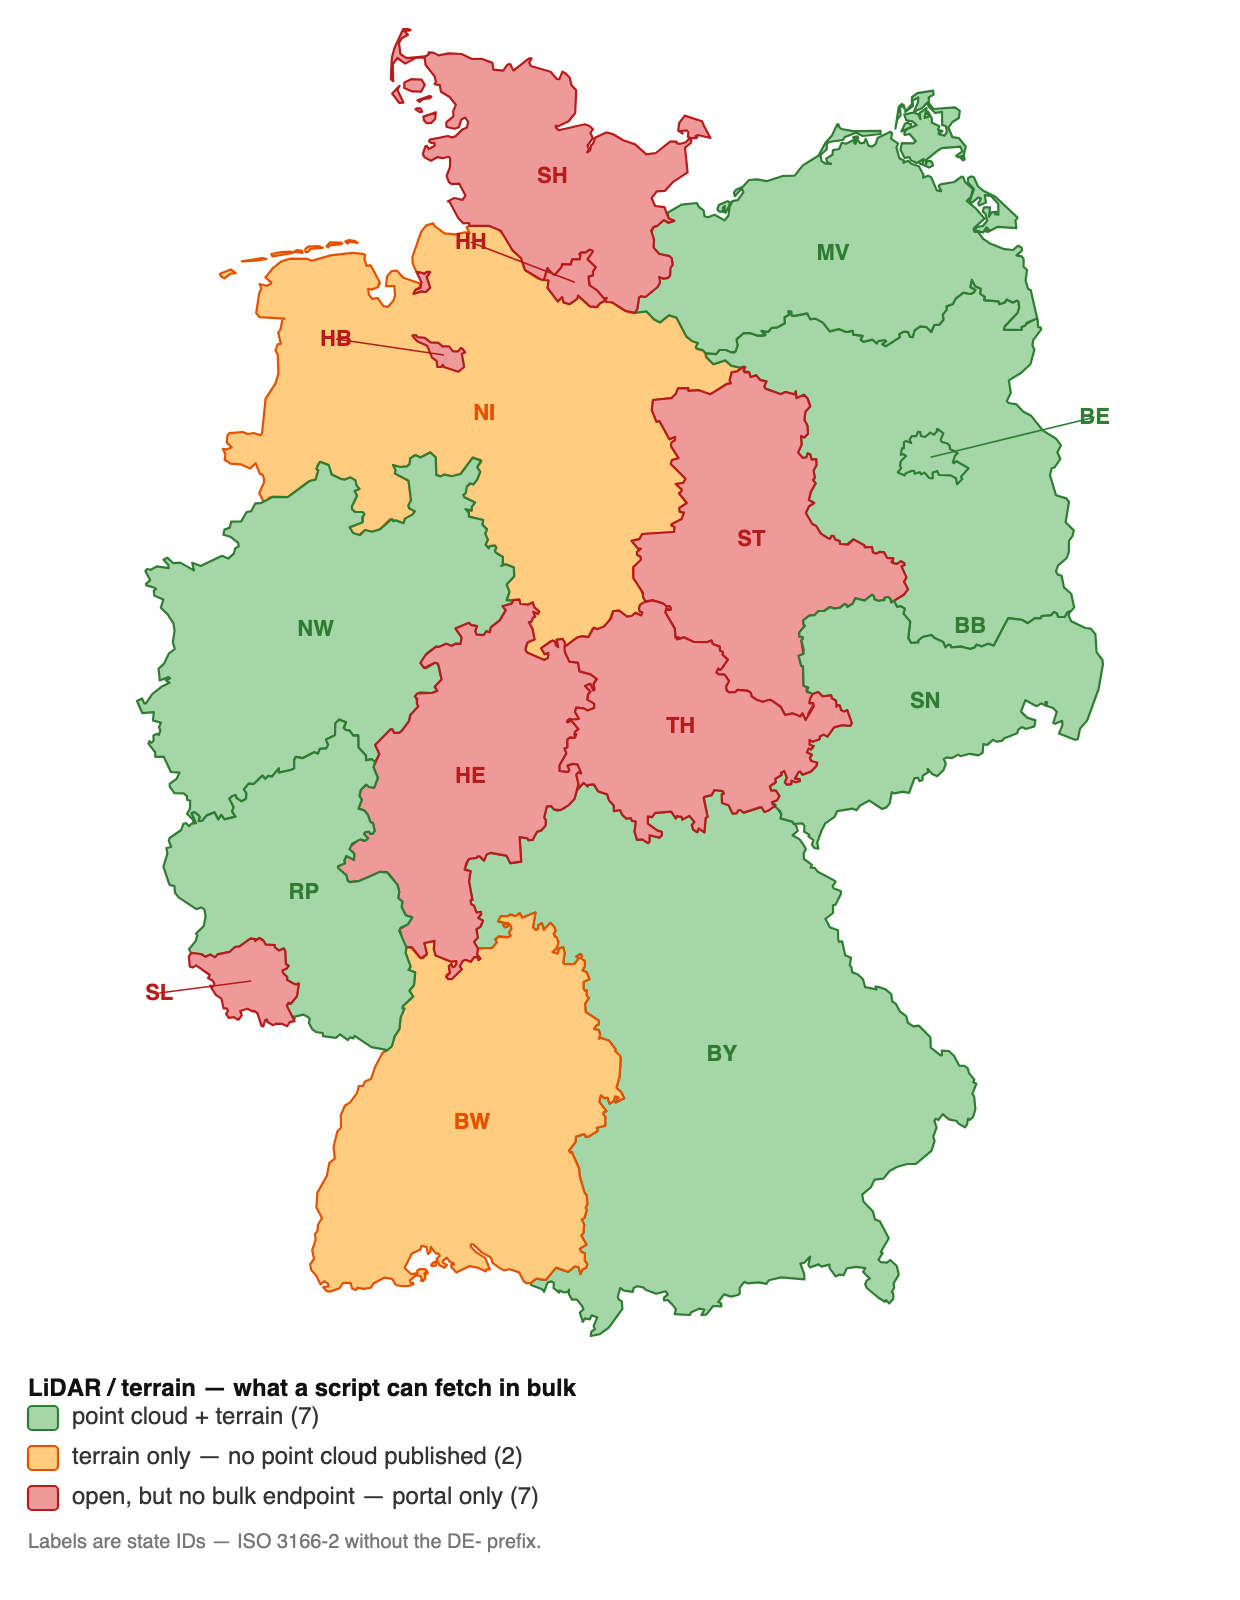
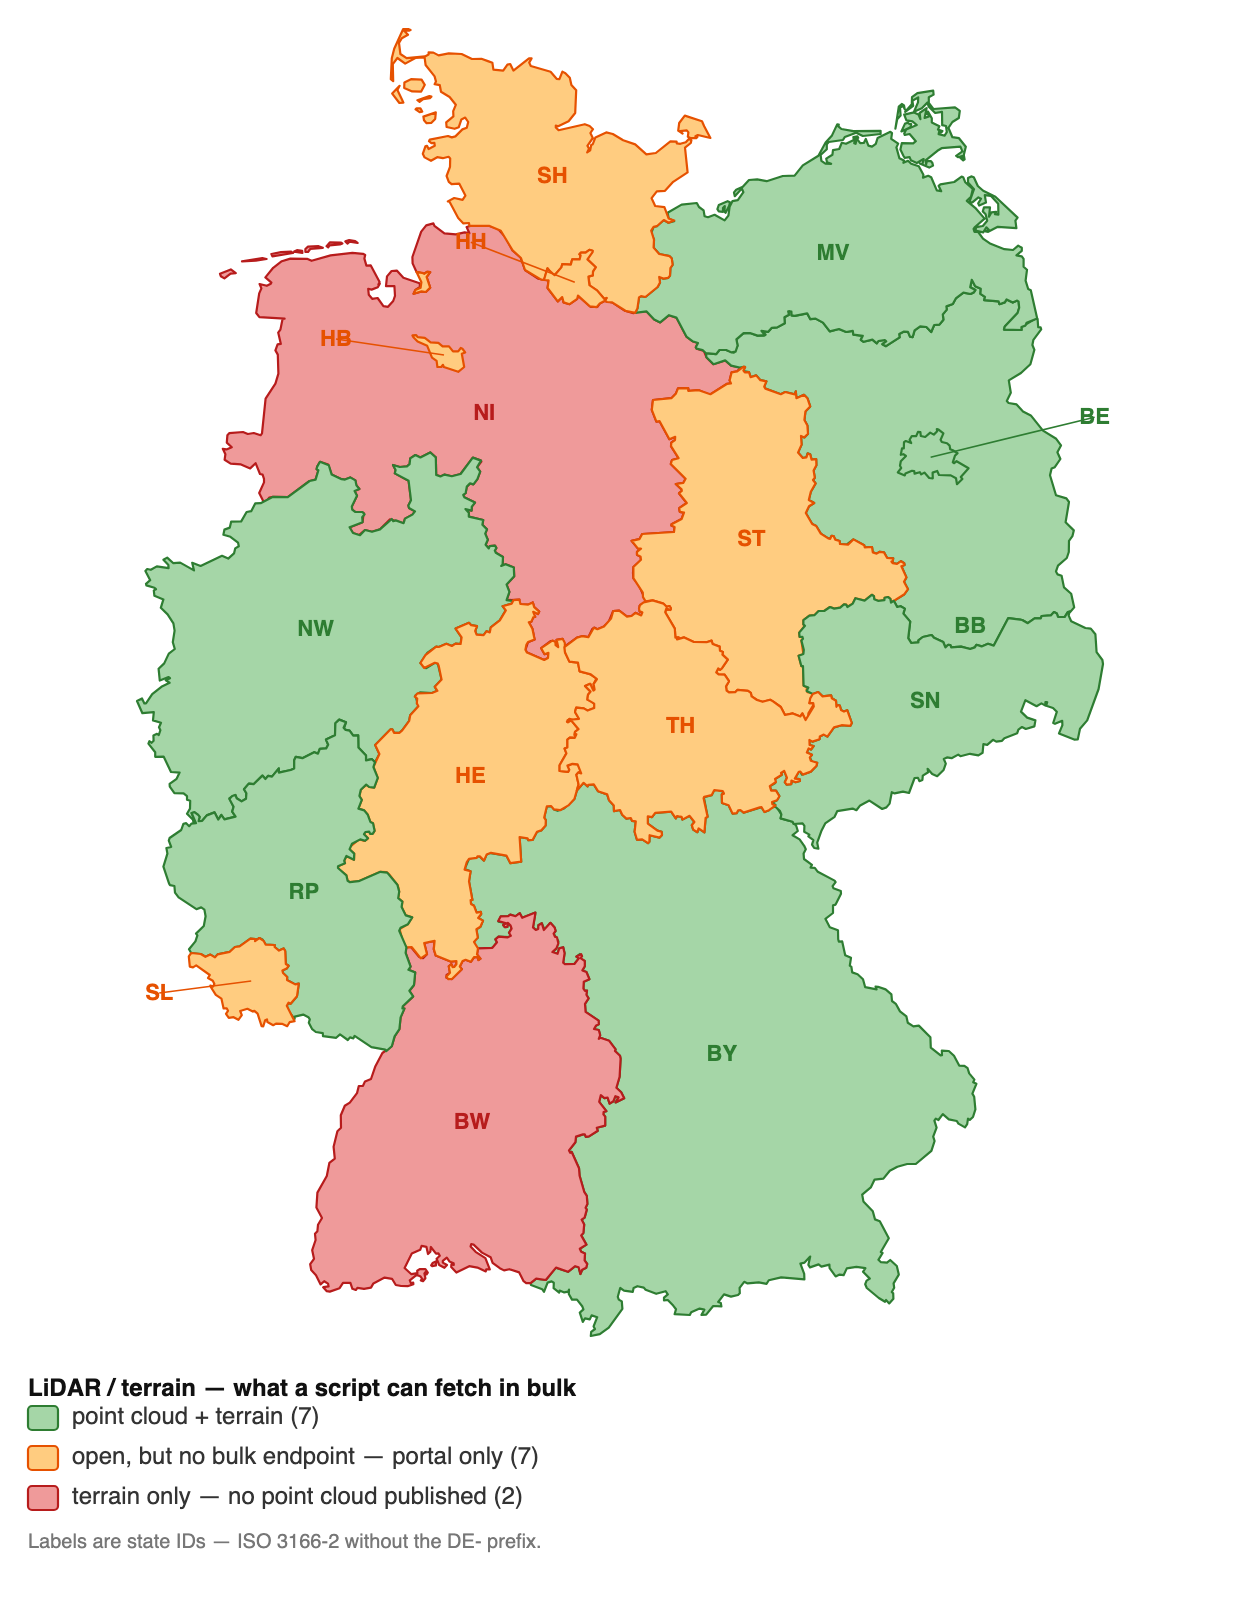
Swap the lidar map's orange and red tiers
Red is now "terrain only" (BW, NI) and orange "no bulk endpoint" (the other
seven), inverting what the coverage and alkis maps do.

The ordering it encodes: a portal state has every product, just not
scriptably, so someone determined can still click through and get it. A
state that publishes no point cloud has nothing further to give however you
ask. The second is the harder stop, so it takes red.

Colour was hard-wired to tier name, which would have made this a silent
remap of "partial" to red everywhere. Legend rows now carry their own colour
-- (tier, colour, label) -- so each map states its own assignment and the
divergence is visible at the point it is decided rather than inferred from
the output. Legend order follows the colour ramp, so green/orange/red still
reads best-to-worst top to bottom.

coverage_map.png and alkis_map.png are byte-identical after the refactor,
which is the check that only the intended map moved.

Changed region(s): [[0.1839, 0.0312, 0.7355, 0.8125], [0.0613, 0.9062, 0.429, 0.9375], [0.1226, 0.5625, 0.2452, 0.6562]]

diff --git a/coverage_map.py b/coverage_map.py
@@ -11,18 +11,21 @@ the answers on geometry, so a glance replaces a table read.
 
   lidar     what elevation can a script actually fetch in bulk?
             green  point cloud + terrain                                                 (7)
-            orange terrain only -- the state publishes no point cloud                    (2)
-            red    open, but no bulk endpoint -- interactive portal only                 (7)
+            orange open, but no bulk endpoint -- interactive portal only                 (7)
+            red    terrain only -- the state publishes no point cloud                    (2)
 
   alkis     what does the state's cadastre actually contain?
             green  full vector ALKIS ohne Eigentuemer                                   (13)
             orange raster cadastral map only -- a picture of the parcels, not geometry   (2)
             red    not open data                                                         (1)
 
-Red never means "closed" except on the alkis map. All 16 states publish elevation openly, so
-the lidar map's red tier is about delivery mechanics -- portals, CAPTCHAs, order clients --
-and the coverage map's red tier is the same states seen through the four-dataset question.
-Orange on the alkis map is likewise not a delivery problem: BY and RP publish their cadastre
+Colour is per-map, not per-tier, because "worst" is a different question on each. The lidar
+map inverts the other two: red is the state with no point cloud to fetch, orange the one
+behind a portal, since a portal state still has every product -- just not scriptably -- while
+a state that publishes no point cloud has nothing more to give however you ask.
+
+Red never means "closed" except on the alkis map. All 16 states publish elevation openly, and
+orange on the alkis map is likewise not a delivery problem: BY and RP publish their cadastre
 as raster, so the download works and the geometry simply is not in it. The legends say so,
 because "not supported" would be wrong in every one of those cases.
 
@@ -79,10 +82,12 @@ HOUSES = {
 # ALKIS packages do carry AX_Gebaeude, so th is arguably 3/4 -- it lands red either way,
 # since it has no bulk elevation at all, which is the stronger constraint.
 
-TIERS = {
-    "full":    ("#2e7d32", "#a5d6a7"),  # stroke, fill
-    "partial": ("#e65100", "#ffcc80"),
-    "none":    ("#b71c1c", "#ef9a9a"),
+# (stroke, fill). Which tier gets which colour is a per-map decision -- see each map's legend
+# in MAPS below -- because "worst" is not the same question on every map.
+PALETTE = {
+    "green":  ("#2e7d32", "#a5d6a7"),
+    "orange": ("#e65100", "#ffcc80"),
+    "red":    ("#b71c1c", "#ef9a9a"),
 }
 
 # Labels that do not fit inside their own polygon: (dx, dy) in output px from the centroid,
@@ -137,8 +142,9 @@ def classify_lidar(props, key):
     """Return (tier, detail) for the elevation map.
 
     The split that matters is not open/closed -- all 16 publish elevation openly -- but
-    whether a script can reach it in bulk. Hence red is "no bulk endpoint", and the two
-    orange states are scripted, just with no point cloud published to fetch.
+    whether a script can reach it in bulk, and then whether both products are there to reach.
+    See this map's legend in MAPS for which tier gets which colour; it is not the same
+    assignment as the other two maps.
     """
     script = props.get("lidar_script")
     if not script:
@@ -177,31 +183,35 @@ def classify_alkis(props, key):
                   f"{SPATIAL.get(props.get('alkis_spatial'), '?')}")
 
 
-# Each map is a classifier plus the words that go under it. Same geometry, same renderer.
+# Each map is a classifier plus the words and colours that go under it. Same geometry, same
+# renderer. Legend rows are (tier, colour, label) and render top-to-bottom in this order.
 MAPS = {
     "coverage": dict(
         out="coverage_map.svg",
         classify=classify_coverage,
         heading="Point cloud + terrain + plots + house structures",
-        legend=[("full", "all four datasets"),
-                ("partial", "missing one of the four"),
-                ("none", "no bulk LiDAR - cadastre only")],
+        legend=[("full", "green", "all four datasets"),
+                ("partial", "orange", "missing one of the four"),
+                ("none", "red", "no bulk LiDAR - cadastre only")],
     ),
     "lidar": dict(
         out="lidar_map.svg",
         classify=classify_lidar,
         heading="LiDAR / terrain — what a script can fetch in bulk",
-        legend=[("full", "point cloud + terrain"),
-                ("partial", "terrain only — no point cloud published"),
-                ("none", "open, but no bulk endpoint — portal only")],
+        # Red is "terrain only" here, not "no bulk endpoint" -- the inverse of the other two
+        # maps. A state with no point cloud published has nothing more to give; one behind a
+        # portal has all of it, just not scriptably, so it is the milder of the two.
+        legend=[("full", "green", "point cloud + terrain"),
+                ("none", "orange", "open, but no bulk endpoint — portal only"),
+                ("partial", "red", "terrain only — no point cloud published")],
     ),
     "alkis": dict(
         out="alkis_map.svg",
         classify=classify_alkis,
         heading="ALKIS cadastre - parcels, buildings, land use",
-        legend=[("full", "full vector cadastre (oE)"),
-                ("partial", "raster cadastral map only"),
-                ("none", "not open data")],
+        legend=[("full", "green", "full vector cadastre (oE)"),
+                ("partial", "orange", "raster cadastral map only"),
+                ("none", "red", "not open data")],
     ),
 }
 
@@ -286,13 +296,14 @@ def main():
     def project(lon, lat):
         return (ox + (lon * kx - x0) * scale, PAD + (y1 - lat) * scale)
 
+    colour = {tier: PALETTE[name] for tier, name, _ in spec["legend"]}
     drawn, labels, counts = [], [], {"full": 0, "partial": 0, "none": 0}
     for f in feats:
         p = f["properties"]
         key = p["key"]
         tier, detail = spec["classify"](p, key)
         counts[tier] += 1
-        stroke, fill = TIERS[tier]
+        stroke, fill = colour[tier]
 
         biggest, best_area = None, -1.0
         paths = []
@@ -335,9 +346,9 @@ def main():
 
     ly = H - LEGEND_H + 30
     leg = [f'  <text x="{PAD}" y="{ly - 14}" class="h">{spec["heading"]}</text>']
-    for i, (tier, text) in enumerate(spec["legend"]):
+    for i, (tier, name, text) in enumerate(spec["legend"]):
         text = f"{text} ({counts[tier]})"
-        stroke, fill = TIERS[tier]
+        stroke, fill = PALETTE[name]
         y = ly + i * 20
         leg.append(f'  <rect x="{PAD}" y="{y - 9}" width="15" height="12" rx="2" '
                    f'fill="{fill}" stroke="{stroke}" stroke-width="1.1"/>')

diff --git a/README.md b/README.md
@@ -89,11 +89,12 @@ per-package until that lands. For one of the five states, the full set is:
 The dividing line is whether an anonymous *bulk* endpoint exists that a script can drive, or
 whether you have to click through an interactive portal.
 
-<img src="lidar_map.png" alt="Map of the 16 Bundesländer coloured by LiDAR availability: green (BB, BE, BY, MV, NW, RP, SN) for point cloud plus terrain, orange (BW, NI) for terrain only, red (HB, HE, HH, SH, SL, ST, TH) for open data with no bulk endpoint" width="560">
+<img src="lidar_map.png" alt="Map of the 16 Bundesländer coloured by LiDAR availability: green (BB, BE, BY, MV, NW, RP, SN) for point cloud plus terrain, orange (HB, HE, HH, SH, SL, ST, TH) for open data with no bulk endpoint, red (BW, NI) for terrain only" width="560">
 
-Green is the seven states with both products scripted; orange is BW and NI, which are scripted
-but publish no point cloud; red is the seven that publish elevation openly but only through a
-portal. Regenerate with `./coverage_map.py lidar`.
+Green is the seven states with both products scripted. Orange is the seven that publish
+elevation openly but only through a portal — everything is there, just not scriptably. Red is
+BW and NI, which are scripted and working but publish **no point cloud at all**, so there is
+nothing further to fetch however you ask. Regenerate with `./coverage_map.py lidar`.
 
 Legend below: ✅ available and scripted · ⚠ open but no bulk endpoint found · ❌ not published.
 
